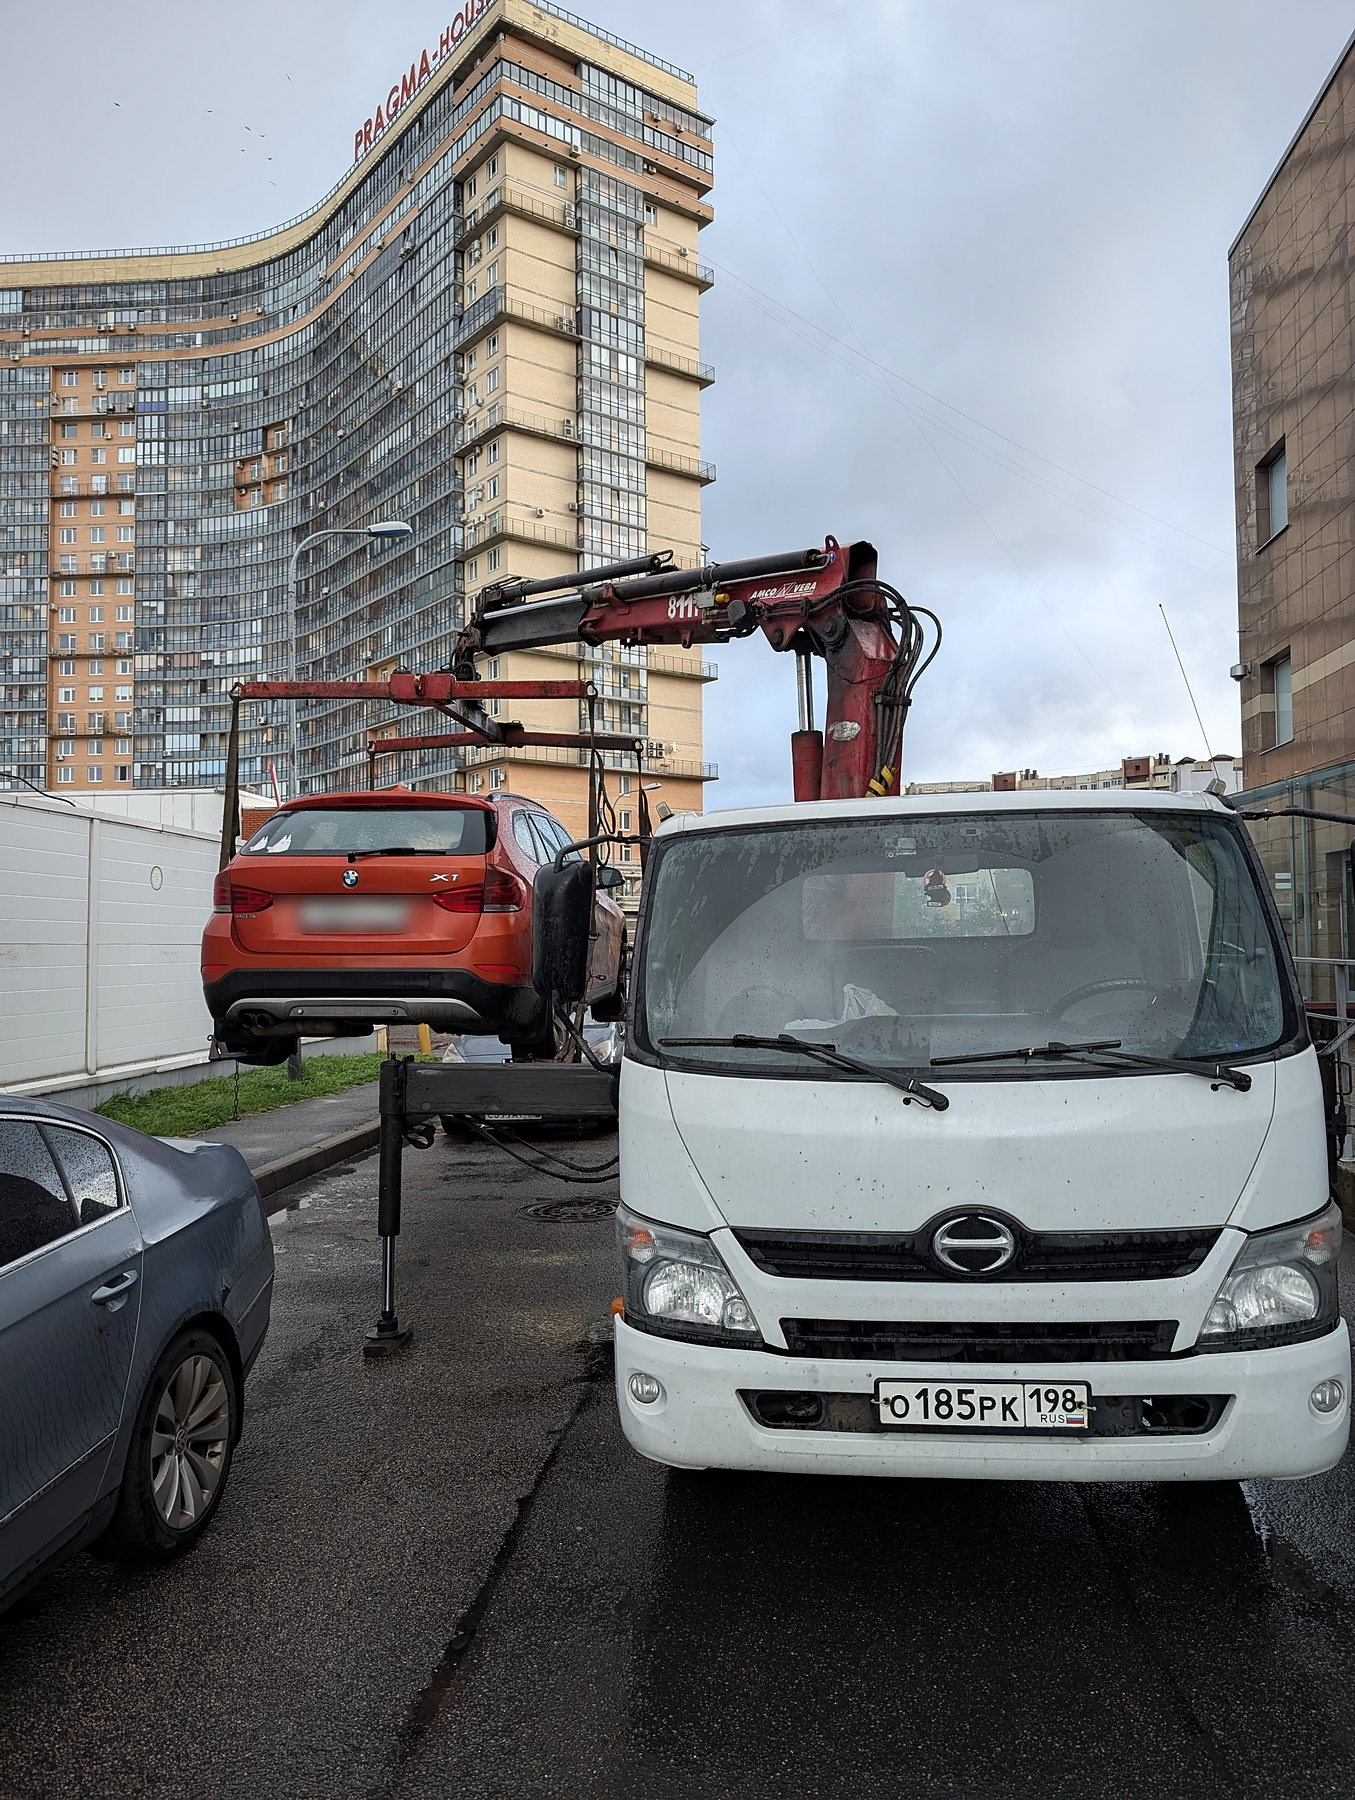
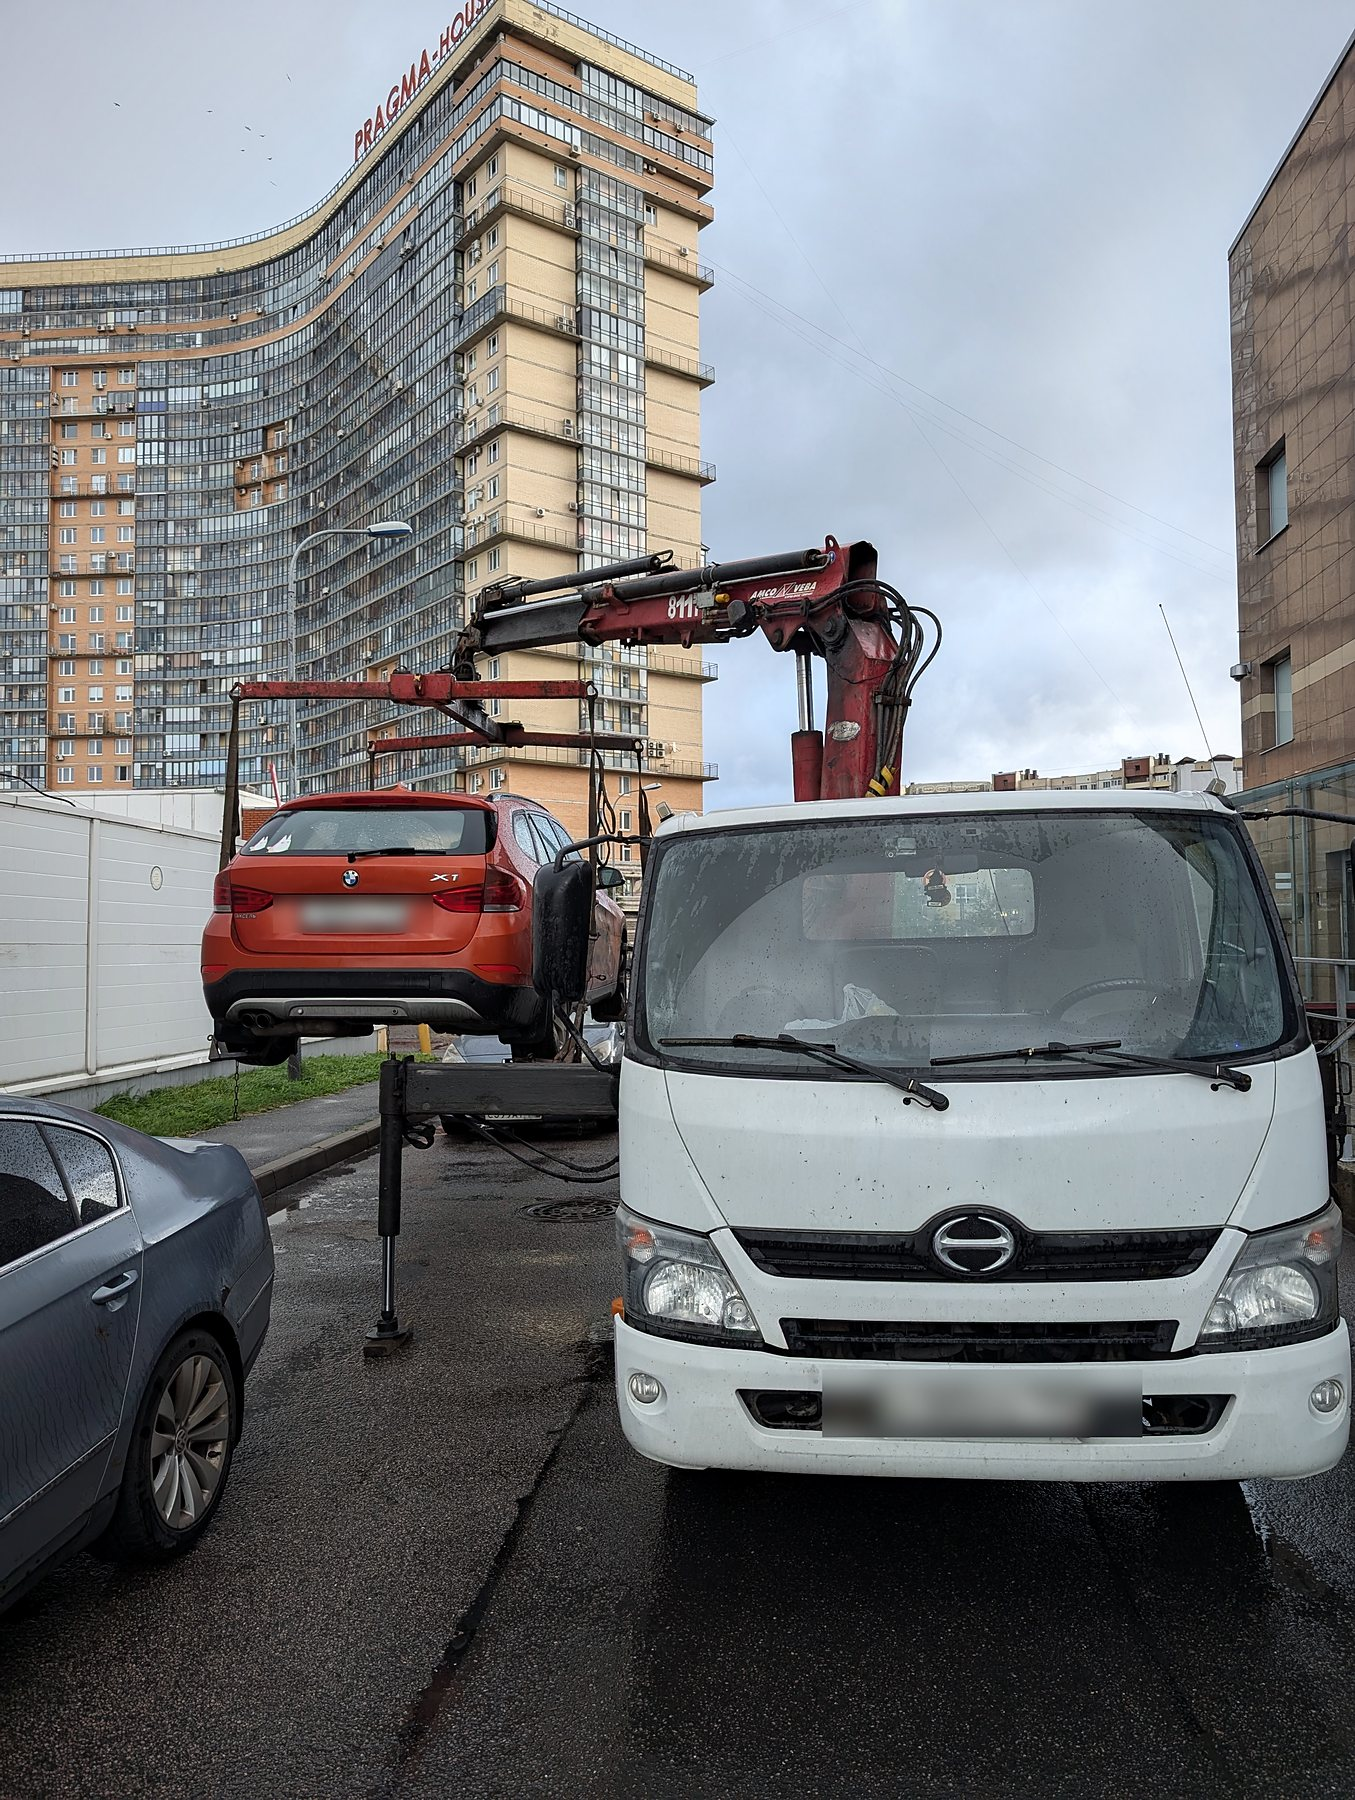
Фото: размыты номера и на эвакуаторах клиента, водяной знак Авито

Changed region(s): [[0.5889, 0.7467, 0.8369, 0.8089]]

diff --git a/photos.html b/photos.html
@@ -1,3 +1,3 @@
 <!DOCTYPE html><html lang="ru"><head><meta charset="utf-8"><meta name="viewport" content="width=device-width,initial-scale=1"><meta name="robots" content="noindex, nofollow"><title>ВС-Логистика: фото для сайта</title>
 <style>body{margin:0;background:#f4f5f7;font-family:system-ui,-apple-system,sans-serif;color:#16191f}h1{margin:0;padding:28px 20px 6px;font-size:24px}p{margin:0;padding:0 20px 20px;color:#5b6270;font-size:14px}.g{display:grid;grid-template-columns:repeat(auto-fill,minmax(260px,1fr));gap:14px;padding:0 20px 40px}figure{margin:0;background:#fff;border-radius:12px;overflow:hidden;box-shadow:0 2px 10px rgba(0,0,0,.06)}img{width:100%;aspect-ratio:3/4;object-fit:cover;display:block}figcaption{padding:10px 12px;font-size:13px;font-weight:600}small{display:block;font-weight:400;color:#9aa3b2;margin-top:3px}</style></head>
-<body><h1>ВС-Логистика: обработанные фото</h1><p>Единый стиль, номера машин клиентов размыты, «40-15-15» на кабинах заменён на 911-07-00. Нажмите на фото, чтобы открыть в полном размере.</p><div class="g"><figure><a href="assets/photos/.gitkeep" target="_blank"><img src="assets/photos/.gitkeep" loading="lazy" alt=""></a><figcaption>.gitkeep<small>.gitkeep</small></figcaption></figure><figure><a href="assets/photos/ditch-volvo-2.jpg" target="_blank"><img src="assets/photos/ditch-volvo-2.jpg" loading="lazy" alt=""></a><figcaption>Сложная эвакуация: подъём стрелой<small>ditch-volvo-2.jpg</small></figcaption></figure><figure><a href="assets/photos/ditch-volvo.jpg" target="_blank"><img src="assets/photos/ditch-volvo.jpg" loading="lazy" alt=""></a><figcaption>Сложная эвакуация: машина в кювете<small>ditch-volvo.jpg</small></figcaption></figure><figure><a href="assets/photos/dtp-red.jpg" target="_blank"><img src="assets/photos/dtp-red.jpg" loading="lazy" alt=""></a><figcaption>После ДТП · логотип чужой платформы скрыт<small>dtp-red.jpg</small></figcaption></figure><figure><a href="assets/photos/fleet.jpg" target="_blank"><img src="assets/photos/fleet.jpg" loading="lazy" alt=""></a><figcaption>Свой парк на базе · номер заменён<small>fleet.jpg</small></figcaption></figure><figure><a href="assets/photos/heavy-tow.jpg" target="_blank"><img src="assets/photos/heavy-tow.jpg" loading="lazy" alt=""></a><figcaption>Грузовой эвакуатор<small>heavy-tow.jpg</small></figcaption></figure><figure><a href="assets/photos/manipulator-bmw.jpg" target="_blank"><img src="assets/photos/manipulator-bmw.jpg" loading="lazy" alt=""></a><figcaption>Манипулятор: погрузка BMW<small>manipulator-bmw.jpg</small></figcaption></figure><figure><a href="assets/photos/manipulator-cabin.jpg" target="_blank"><img src="assets/photos/manipulator-cabin.jpg" loading="lazy" alt=""></a><figcaption>Манипулятор: бытовка · номер заменён<small>manipulator-cabin.jpg</small></figcaption></figure><figure><a href="assets/photos/manipulator-cargo.jpg" target="_blank"><img src="assets/photos/manipulator-cargo.jpg" loading="lazy" alt=""></a><figcaption>Манипулятор: негабаритный груз · номер заменён<small>manipulator-cargo.jpg</small></figcaption></figure><figure><a href="assets/photos/manipulator-city.jpg" target="_blank"><img src="assets/photos/manipulator-city.jpg" loading="lazy" alt=""></a><figcaption>Манипулятор в городе<small>manipulator-city.jpg</small></figcaption></figure><figure><a href="assets/photos/manipulator-house.jpg" target="_blank"><img src="assets/photos/manipulator-house.jpg" loading="lazy" alt=""></a><figcaption>Манипулятор во дворе<small>manipulator-house.jpg</small></figcaption></figure><figure><a href="assets/photos/manipulator-parking.jpg" target="_blank"><img src="assets/photos/manipulator-parking.jpg" loading="lazy" alt=""></a><figcaption>Манипулятор на парковке<small>manipulator-parking.jpg</small></figcaption></figure><figure><a href="assets/photos/manipulator-suv.jpg" target="_blank"><img src="assets/photos/manipulator-suv.jpg" loading="lazy" alt=""></a><figcaption>Манипулятор: кроссовер<small>manipulator-suv.jpg</small></figcaption></figure><figure><a href="assets/photos/manipulator-truck.jpg" target="_blank"><img src="assets/photos/manipulator-truck.jpg" loading="lazy" alt=""></a><figcaption>Манипулятор<small>manipulator-truck.jpg</small></figcaption></figure><figure><a href="assets/photos/night-burnt.jpg" target="_blank"><img src="assets/photos/night-burnt.jpg" loading="lazy" alt=""></a><figcaption>Ночью: погрузка после пожара<small>night-burnt.jpg</small></figcaption></figure><figure><a href="assets/photos/snow-ditch.jpg" target="_blank"><img src="assets/photos/snow-ditch.jpg" loading="lazy" alt=""></a><figcaption>Зимой: машина в кювете<small>snow-ditch.jpg</small></figcaption></figure><figure><a href="assets/photos/uaz-curb.jpg" target="_blank"><img src="assets/photos/uaz-curb.jpg" loading="lazy" alt=""></a><figcaption>Сложный доступ: УАЗ на бордюре<small>uaz-curb.jpg</small></figcaption></figure></div></body></html>
+<body><h1>ВС-Логистика: обработанные фото</h1><p>Единый стиль, все номера машин размыты, «40-15-15» на кабинах заменён на 911-07-00. Нажмите на фото, чтобы открыть в полном размере.</p><div class="g"><figure><a href="assets/photos/.gitkeep" target="_blank"><img src="assets/photos/.gitkeep" loading="lazy" alt=""></a><figcaption>.gitkeep<small>.gitkeep</small></figcaption></figure><figure><a href="assets/photos/ditch-volvo-2.jpg" target="_blank"><img src="assets/photos/ditch-volvo-2.jpg" loading="lazy" alt=""></a><figcaption>Сложная эвакуация: подъём стрелой<small>ditch-volvo-2.jpg</small></figcaption></figure><figure><a href="assets/photos/ditch-volvo.jpg" target="_blank"><img src="assets/photos/ditch-volvo.jpg" loading="lazy" alt=""></a><figcaption>Сложная эвакуация: машина в кювете<small>ditch-volvo.jpg</small></figcaption></figure><figure><a href="assets/photos/dtp-red.jpg" target="_blank"><img src="assets/photos/dtp-red.jpg" loading="lazy" alt=""></a><figcaption>После ДТП · логотип чужой платформы скрыт<small>dtp-red.jpg</small></figcaption></figure><figure><a href="assets/photos/fleet.jpg" target="_blank"><img src="assets/photos/fleet.jpg" loading="lazy" alt=""></a><figcaption>Свой парк на базе · номер заменён<small>fleet.jpg</small></figcaption></figure><figure><a href="assets/photos/heavy-tow.jpg" target="_blank"><img src="assets/photos/heavy-tow.jpg" loading="lazy" alt=""></a><figcaption>Грузовой эвакуатор<small>heavy-tow.jpg</small></figcaption></figure><figure><a href="assets/photos/manipulator-bmw.jpg" target="_blank"><img src="assets/photos/manipulator-bmw.jpg" loading="lazy" alt=""></a><figcaption>Манипулятор: погрузка BMW<small>manipulator-bmw.jpg</small></figcaption></figure><figure><a href="assets/photos/manipulator-cabin.jpg" target="_blank"><img src="assets/photos/manipulator-cabin.jpg" loading="lazy" alt=""></a><figcaption>Манипулятор: бытовка · номер заменён<small>manipulator-cabin.jpg</small></figcaption></figure><figure><a href="assets/photos/manipulator-cargo.jpg" target="_blank"><img src="assets/photos/manipulator-cargo.jpg" loading="lazy" alt=""></a><figcaption>Манипулятор: негабаритный груз · номер заменён<small>manipulator-cargo.jpg</small></figcaption></figure><figure><a href="assets/photos/manipulator-city.jpg" target="_blank"><img src="assets/photos/manipulator-city.jpg" loading="lazy" alt=""></a><figcaption>Манипулятор в городе<small>manipulator-city.jpg</small></figcaption></figure><figure><a href="assets/photos/manipulator-house.jpg" target="_blank"><img src="assets/photos/manipulator-house.jpg" loading="lazy" alt=""></a><figcaption>Манипулятор во дворе<small>manipulator-house.jpg</small></figcaption></figure><figure><a href="assets/photos/manipulator-parking.jpg" target="_blank"><img src="assets/photos/manipulator-parking.jpg" loading="lazy" alt=""></a><figcaption>Манипулятор на парковке<small>manipulator-parking.jpg</small></figcaption></figure><figure><a href="assets/photos/manipulator-suv.jpg" target="_blank"><img src="assets/photos/manipulator-suv.jpg" loading="lazy" alt=""></a><figcaption>Манипулятор: кроссовер<small>manipulator-suv.jpg</small></figcaption></figure><figure><a href="assets/photos/manipulator-truck.jpg" target="_blank"><img src="assets/photos/manipulator-truck.jpg" loading="lazy" alt=""></a><figcaption>Манипулятор<small>manipulator-truck.jpg</small></figcaption></figure><figure><a href="assets/photos/night-burnt.jpg" target="_blank"><img src="assets/photos/night-burnt.jpg" loading="lazy" alt=""></a><figcaption>Ночью: погрузка после пожара<small>night-burnt.jpg</small></figcaption></figure><figure><a href="assets/photos/snow-ditch.jpg" target="_blank"><img src="assets/photos/snow-ditch.jpg" loading="lazy" alt=""></a><figcaption>Зимой: машина в кювете<small>snow-ditch.jpg</small></figcaption></figure><figure><a href="assets/photos/uaz-curb.jpg" target="_blank"><img src="assets/photos/uaz-curb.jpg" loading="lazy" alt=""></a><figcaption>Сложный доступ: УАЗ на бордюре<small>uaz-curb.jpg</small></figcaption></figure></div></body></html>
